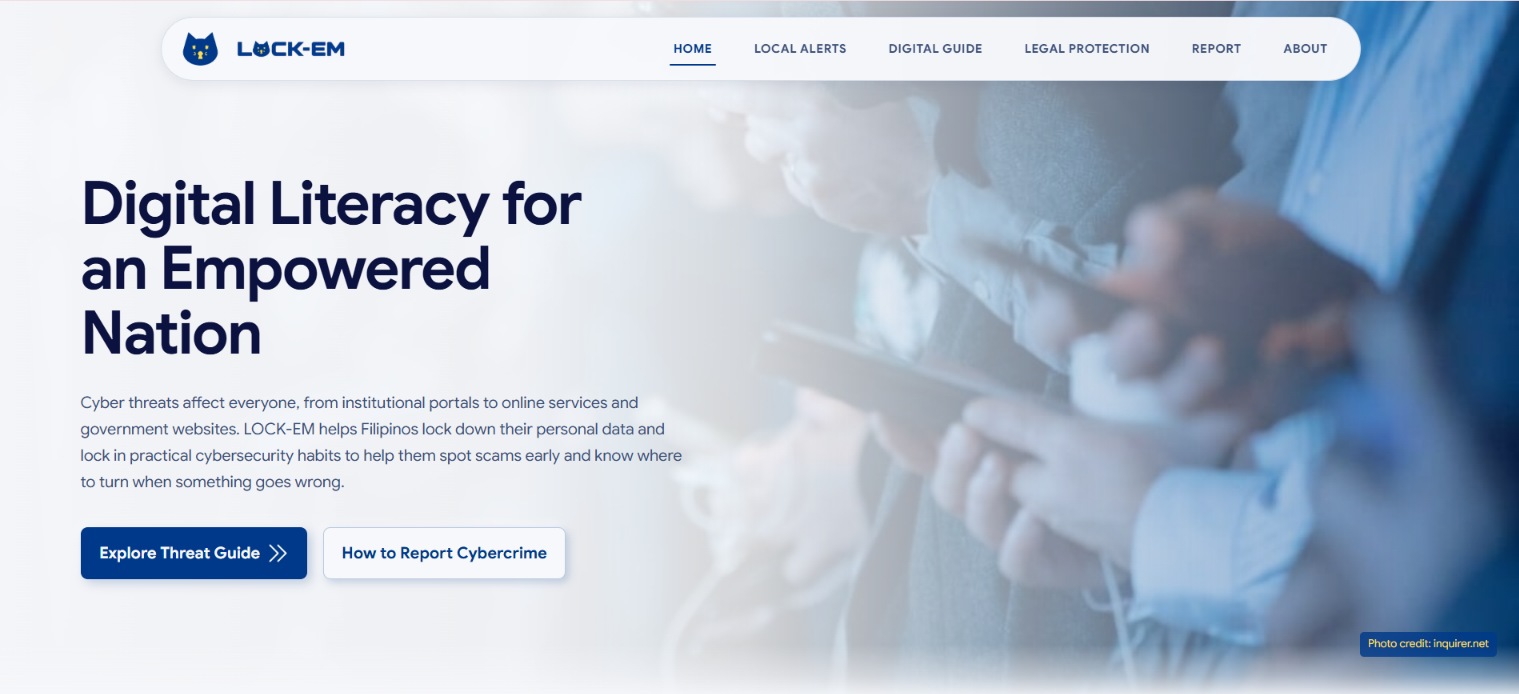
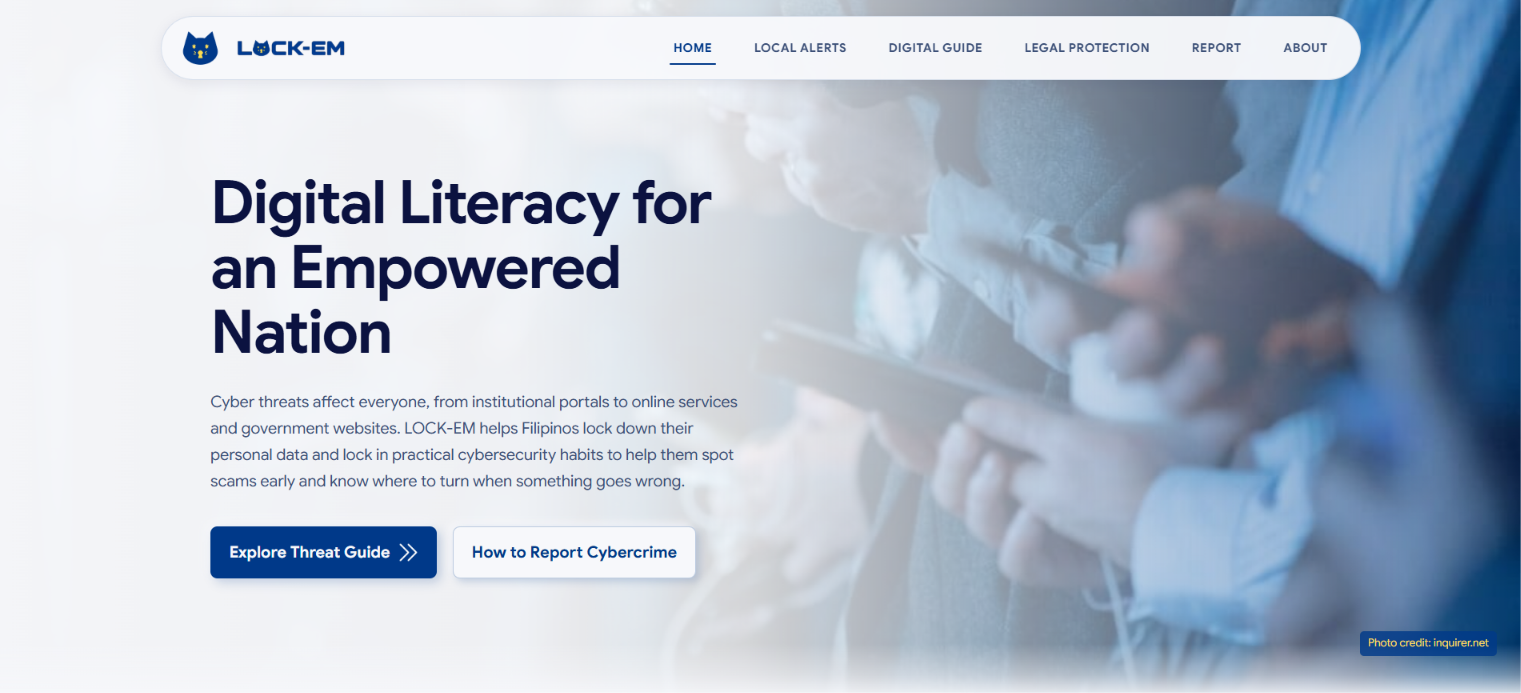
Updated thumbnail.

diff --git a/index.html b/index.html
@@ -16,13 +16,13 @@
       content="Build practical cybersecurity habits, spot scams, and know where to turn when something goes wrong."
     />
     <meta property="og:url" content="https://lock-em.vercel.app/" />
-    <meta property="og:image" content="https://lock-em.vercel.app/assets/social-preview.png" />
+    <meta property="og:image" content="https://lock-em.vercel.app/assets/social-preview.png?v=2" />
     <meta property="og:image:type" content="image/png" />
     <meta property="og:image:width" content="1200" />
     <meta property="og:image:height" content="630" />
     <meta
       property="og:image:alt"
-      content="People using smartphones, featured on the LOCK-EM homepage."
+      content="LOCK-EM — Digital Literacy for an Empowered Nation"
     />
     <meta name="twitter:card" content="summary_large_image" />
     <meta name="twitter:title" content="LOCK-EM — Digital Literacy for an Empowered Nation" />
@@ -30,7 +30,7 @@
       name="twitter:description"
       content="Build practical cybersecurity habits, spot scams, and know where to turn when something goes wrong."
     />
-    <meta name="twitter:image" content="https://lock-em.vercel.app/assets/social-preview.png" />
+    <meta name="twitter:image" content="https://lock-em.vercel.app/assets/social-preview.png?v=2" />
     <link rel="icon" type="image/png" href="assets/bluelockem.png" />
     <link rel="stylesheet" href="styles.css" />
   </head>

diff --git a/styles.css b/styles.css
@@ -504,8 +504,8 @@ p strong {
 }
 
 .home-hero .hero-copy {
-  max-width: 640px;
-  padding: clamp(12px, 2vw, 24px) 0;
+  max-width: 680px;
+  padding: clamp(12px, 2vw, 24px) 0 clamp(12px, 2vw, 24px) clamp(24px, 4vw, 56px);
 }
 
 .home-hero .hero-copy h1 {
